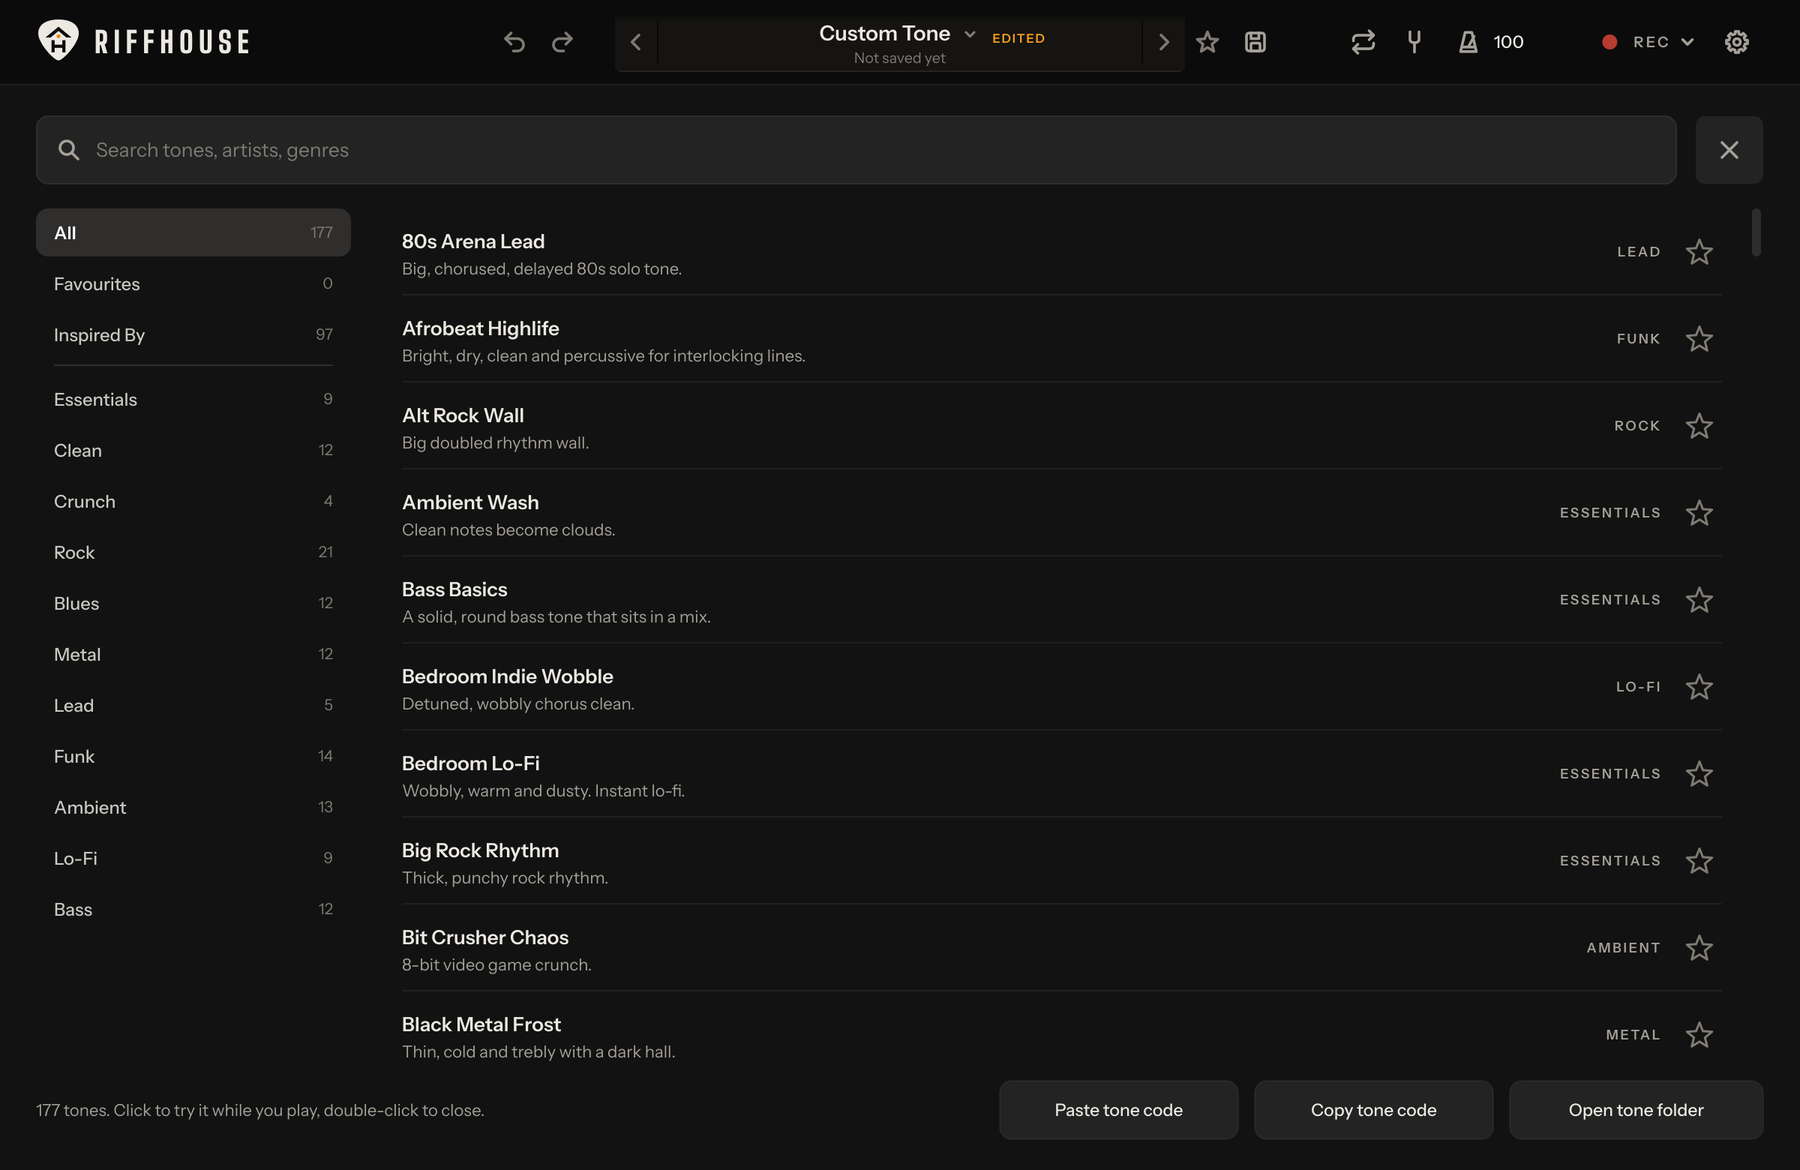
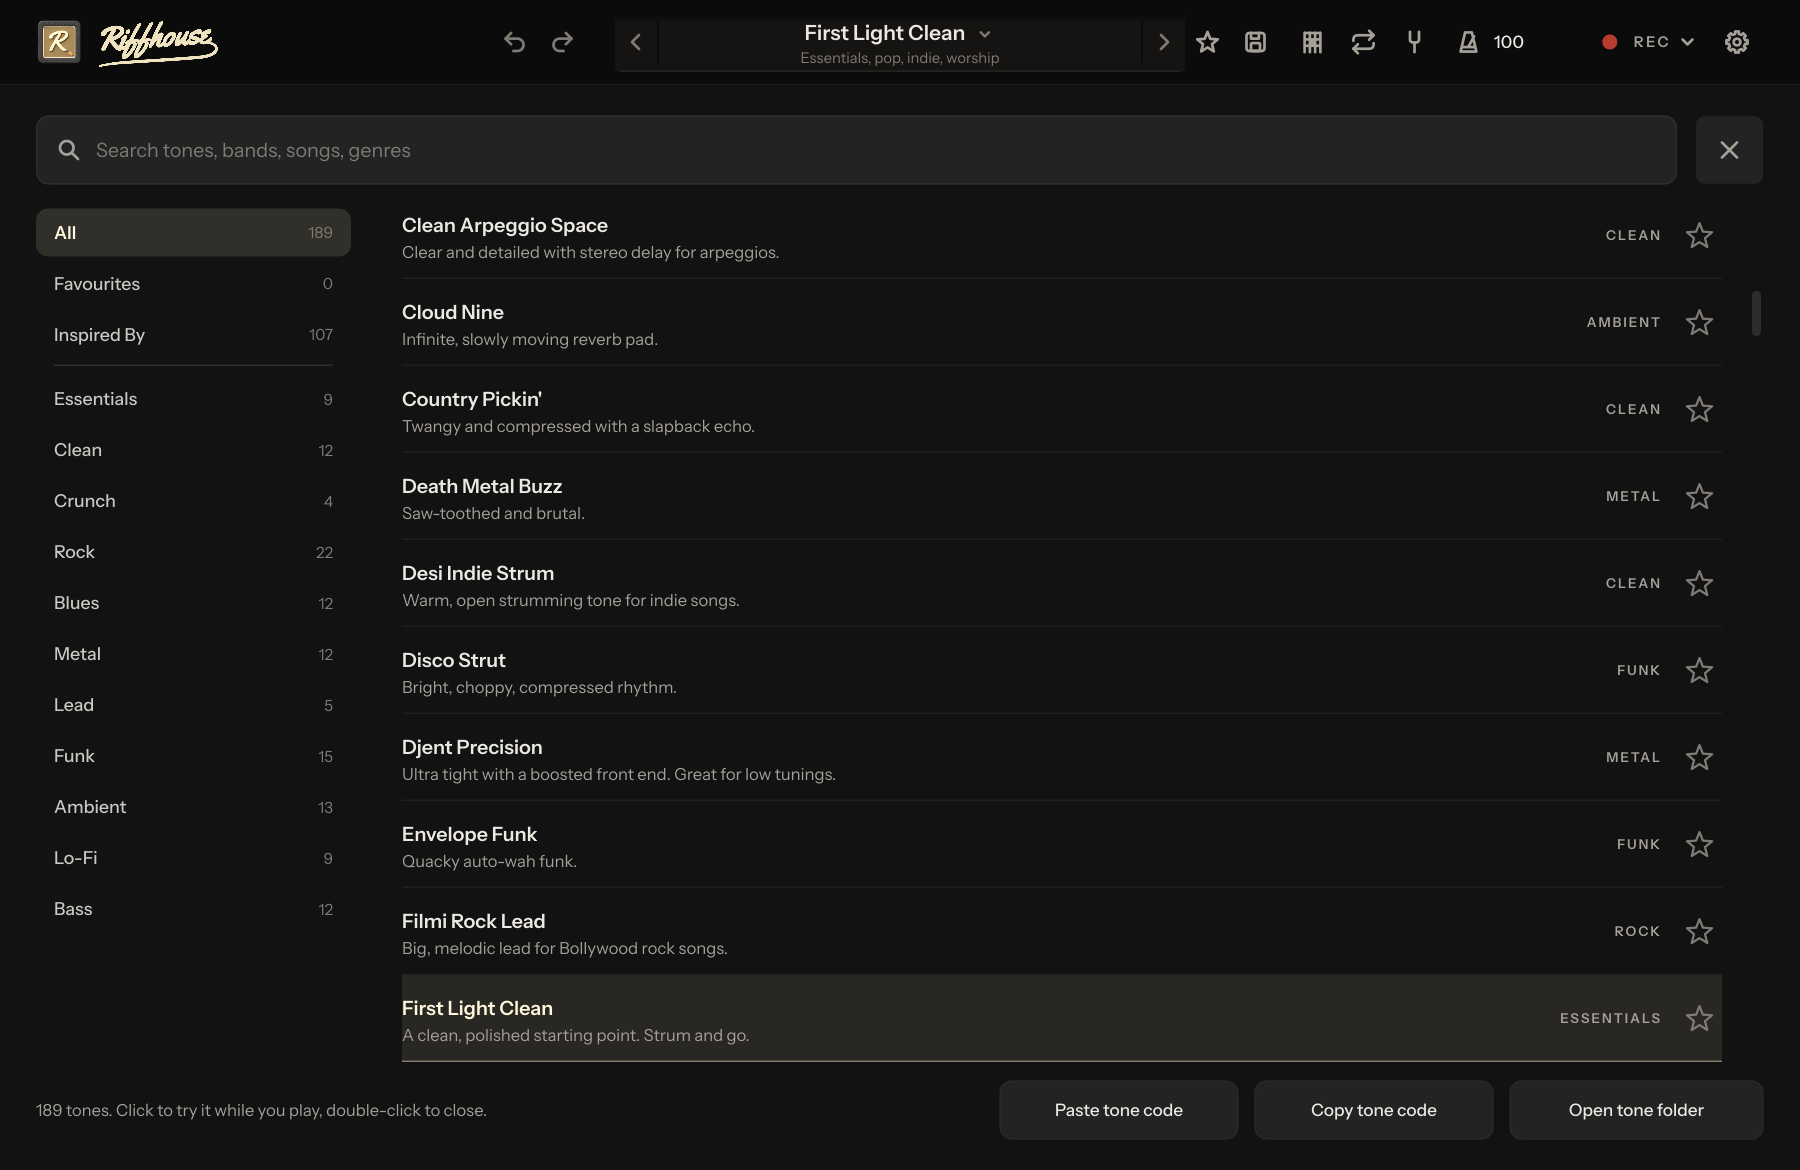
0.1.3: a new look, a sound card that sorts itself out, a classic wah, chords and tabs
The release: version 0.1.3, its changelog, and the README with the new
screens and a 'New in 0.1.3' list.

diff --git a/CHANGELOG.md b/CHANGELOG.md
@@ -6,6 +6,52 @@ the middle one for new things, the first one when something you rely on changes.
 
 Each release on GitHub carries the notes of its version from this file.
 
+## 0.1.3
+
+A new logo, a sound card that sorts itself out, a cleaner window that fits any screen, a classic wah, and two new ways to share: tones as a plain message, and songs as chords and tabs you play from.
+
+### Your sound card, your way
+
+- Settings > Driver, input and output has a Driver box again: Automatic, ASIO, WASAPI exclusive, WASAPI shared and DirectSound. Each lists its own inputs and outputs.
+- Every ASIO driver on the computer is listed when you pick ASIO, ASIO4ALL and FlexASIO included.
+- Automatic uses your interface's ASIO driver when there is one, and otherwise Windows exclusive mode, the fastest. It no longer settles for shared mode when exclusive works.
+- ASIO sorts itself out. An interface stuck at another sample rate (by its own settings, or because Windows is using it) is tried at its own rate and every usual one, and Riffhouse says which rate it ended on.
+- When an ASIO driver will not start, it says why in plain words: most often another program is using it, or its clock is set to an outside source.
+- When only the interface's own settings can change the delay, Riffhouse says how many milliseconds that costs and opens those settings with one button. It picks up the change by itself.
+- When it has to use shared mode, it says why in plain words. The usual reason is a guitar on one USB device and headphones on another, and it says what to plug in instead.
+- Picking an input by hand now ends on the lowest delay that plays without crackles, the same way setup does.
+- Nothing locks you out: a driver that will not start puts back the last setup that worked and tells you what happened.
+- With an ASIO driver, Sound out lists your interface's outputs by name (headphones, speakers), and any other output on the computer below them.
+- Interfaces with more than two inputs get a Socket box, so a guitar in socket 3 or 4 is heard.
+- A loop in the looper stays when the delay or the sound card changes at the same sample rate.
+
+### Cleaner, and fits any window
+
+- The new Riffhouse logo: the amp-face badge and the script name, in the top bar, on the app icon and in the installer.
+- The rig grows to fill the window, wide or tall, instead of sitting in black bars.
+- Settings is one simple page again, with a short list on the side that jumps to each part, and a plate that shows the delay.
+- The bar at the bottom only shows what is doing something (hum removed, Input Fix, the gate), so a quiet bar means nothing needs a look.
+- The take strip at the bottom no longer covers Settings or any other page.
+- Pedal knob labels are printed on the pedal like real silk-screen.
+
+### A classic wah
+
+- The wah has a third type, Classic: the throaty 60s sweep, darker and more vocal than the others, rocked with your foot or an expression pedal. It has its own green pedal, THROAT.
+- New tone: Rocked Wah Soul. The solo tone inspired by Sweet Child O' Mine now uses the Classic wah.
+
+### Share and play
+
+- Copy tone code now copies a short message: the tone's name, the free download link and the code. A friend copies the whole message and presses Ctrl+V in Riffhouse. The code is found even when a chat app wraps it over lines.
+- Chords and tabs: copy a song's chords or tab from any website and press Ctrl+V. Chords sit over their words, tab is drawn on six strings, and each chord's shape is shown along the top. Change the key, make it bigger to read from your chair, let it scroll by itself while you play, and copy it out in the key you see. Songs are kept as text files in Documents/Riffhouse/Songs.
+- Every take has an MP3 / FLAC button. Convert a sound file does the same for any WAV, AIFF, FLAC, OGG or MP3. Copies never replace the original.
+
+### Also
+
+- Settings > Updates: "Get new versions early, as a tester" offers test versions a few days before everyone gets them.
+- Riffhouse starts in about half the time.
+- Tones named after an artist say plainly that they are a style, in the tone list and in a shared tone's message. About says how an artist can ask for a change.
+- The installer carries every part's licence in Licences.txt.
+
 ## 0.1.2
 
 0.1.1 broke for the first people who installed it: it could close at the end of setup, stop answering, and open setup again at every start. This version fixes those, and changes how every build is checked so they do not come back.

diff --git a/README.md b/README.md
@@ -2,7 +2,7 @@
 
 # Riffhouse
 
-**Music should be free.** Riffhouse is a guitar amp and pedalboard for your computer: 11 amps, 29 pedals, 9 speaker cabinets and 188 tones. All of it is free, with no account, no ads and no paid version.
+**Music should be free.** Riffhouse is a guitar amp and pedalboard for your computer: 11 amps, 30 pedals, 9 speaker cabinets and 189 tones. All of it is free, with no account, no ads and no paid version.
 
 Plug your guitar into whatever you have, an audio interface or the mic jack on a laptop. Pick your input, play for under a minute while it sets itself up, and you have an amp.
 
@@ -12,14 +12,17 @@ More on the [website](https://natikchhabra.github.io/riffhouse/), or go straight
 
 ![The amp page, with the pedalboard across the top](docs/screenshots/amp.png)
 
-## New in 0.1.2
+## New in 0.1.3
 
-- **Setup no longer closes the app.** 0.1.1 could close at the very end of setup and could stop answering when a sound card was slow. Both are fixed, and every build now runs the end of a real setup before it ships.
-- **Setup runs once.** It no longer opens at every start, and it no longer stutters while it listens.
-- **No driver to pick.** Choose where the guitar comes in and where the sound goes out. Riffhouse tries the fastest way that input has and moves to the next by itself if one will not start.
-- **Reports that explain themselves.** Riffhouse keeps a short diary of what it did with the sound card. **Report a problem** and **Save a report** in Settings include it, so a problem on your computer can be found without you knowing any of the words.
-- **Eleven new tones, 188 in all,** ten of them made after songs the first players asked for. Search finds tones by band and by song.
-- **Recordings explain themselves.** The folder with the bare guitar is now called "Clean guitar (for Change the tone)".
+- **A new look.** The new Riffhouse logo, a window that fills any screen shape, Settings on one simple page, and a bottom bar that only speaks up when something is happening.
+- **Your sound card, your way.** Pick the driver yourself (Automatic, ASIO, WASAPI exclusive or shared, DirectSound) or let Riffhouse pick. Every ASIO driver is listed, ASIO4ALL and FlexASIO included.
+- **ASIO sorts itself out.** An interface stuck at another sample rate still starts. When a driver will not, Riffhouse says why in plain words, and when only the interface's own settings can lower the delay, it opens them for you.
+- **A classic wah.** The throaty 60s sweep, rocked with your foot or an expression pedal, on its own green pedal.
+- **Chords and tabs.** Paste a song from any website: chords over the words, tab on six strings, chord shapes along the top. Change the key, make it bigger, let it scroll while you play.
+- **Share a tone as a message.** Copy tone code gives a short message with the free download link. Your friend copies it and presses Ctrl+V.
+- **MP3 and FLAC.** Every take has an MP3 / FLAC button, and any sound file can be converted.
+
+![Chords and tabs, read from your chair](docs/screenshots/chords.png)
 
 The full list is in the [changelog](CHANGELOG.md).
 
